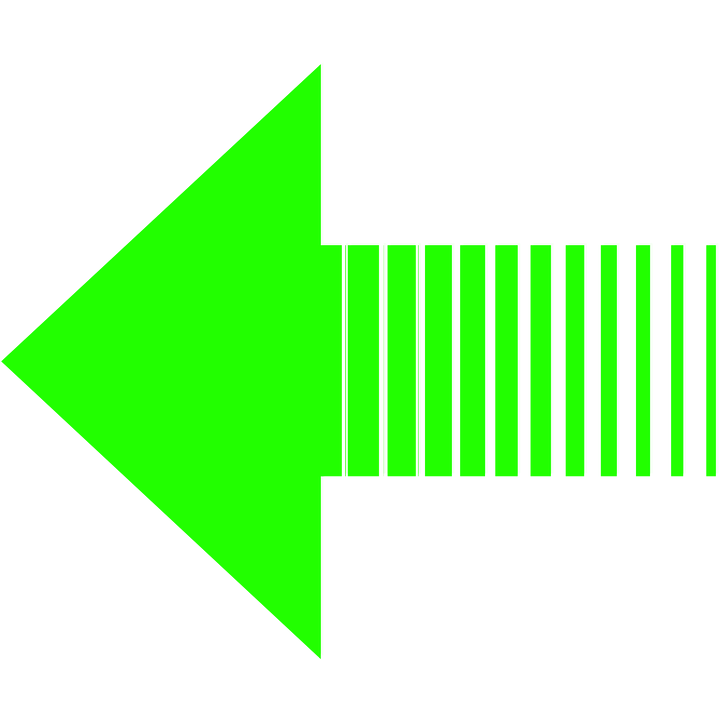
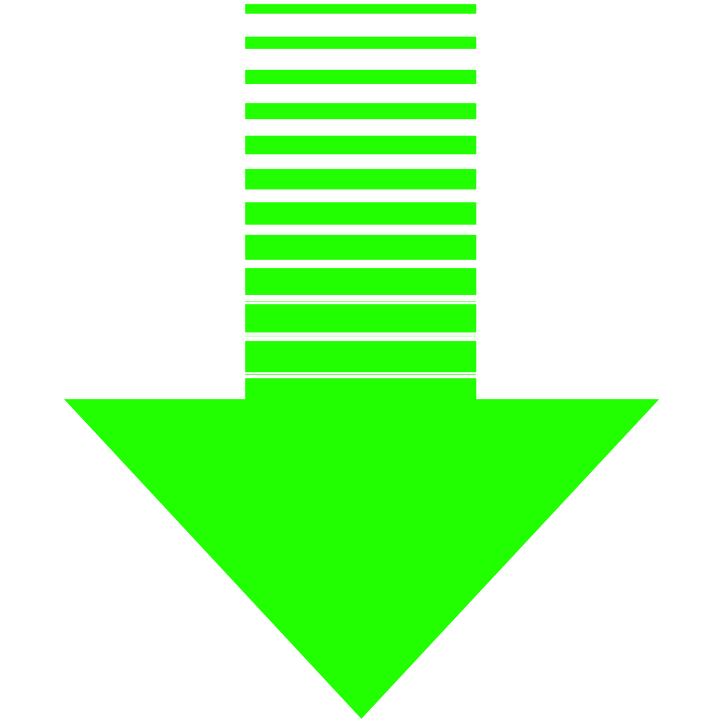
added Rotation
Need to fix player controls

diff --git a/Cubethon-AI/Assets/Resources/Scripts/Kinematic.cs b/Cubethon-AI/Assets/Resources/Scripts/Kinematic.cs
@@ -26,7 +26,7 @@ public class Kinematic : MonoBehaviour
     public void UpdatePosition(KinematicSteeringOutput steeringOutput, float time)
     {
         transform.position += steeringOutput.velocity * Time.deltaTime;
-        transform.eulerAngles = new Vector3(0.0f, steeringOutput.rotation * Time.deltaTime,0.0f);
+        transform.eulerAngles = new Vector3(0.0f, steeringOutput.rotation,0.0f);
 
         //velocity += steeringOutput.linear * Time.deltaTime;
         //rotation += steeringOutput.angular * Time.deltaTime;

diff --git a/Cubethon-AI/Assets/Resources/Scripts/PlayerKinematicSteering.cs b/Cubethon-AI/Assets/Resources/Scripts/PlayerKinematicSteering.cs
@@ -32,7 +32,7 @@ public class PlayerKinematicSteering : IKinematicSteering
     float NewOrientation(float current, Vector3 velocity)
     {
         if (velocity.magnitude > 0)
-            return Mathf.Atan2(-velocity.x, velocity.z);
+            return (180 * Mathf.Atan2(velocity.x, velocity.z) / Mathf.PI);
         else
             return current;
     }

diff --git a/Cubethon-AI/Assets/Resources/Scripts/AIKinematicSteering.cs b/Cubethon-AI/Assets/Resources/Scripts/AIKinematicSteering.cs
@@ -35,7 +35,7 @@ public class AIKinematicSteering : IKinematicSteering
     float NewOrientation(float current, Vector3 velocity)
     {
         if (velocity.magnitude > 0)
-            return Mathf.Atan2(-velocity.x, velocity.z);
+            return (180 * Mathf.Atan2(velocity.x, velocity.z) / Mathf.PI);
         else
             return current;
     }
